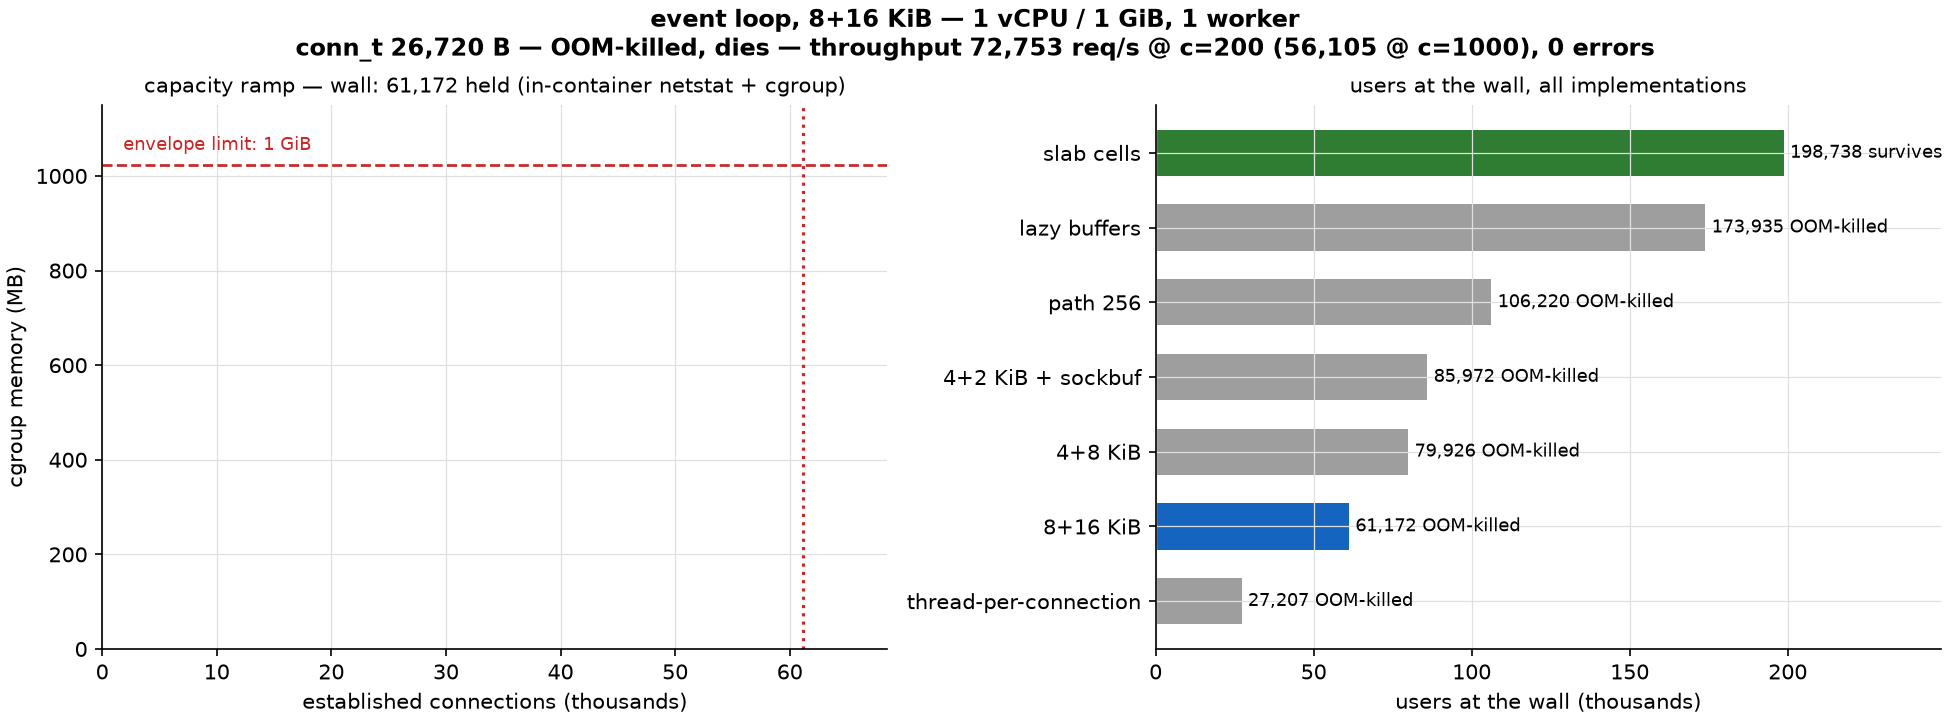
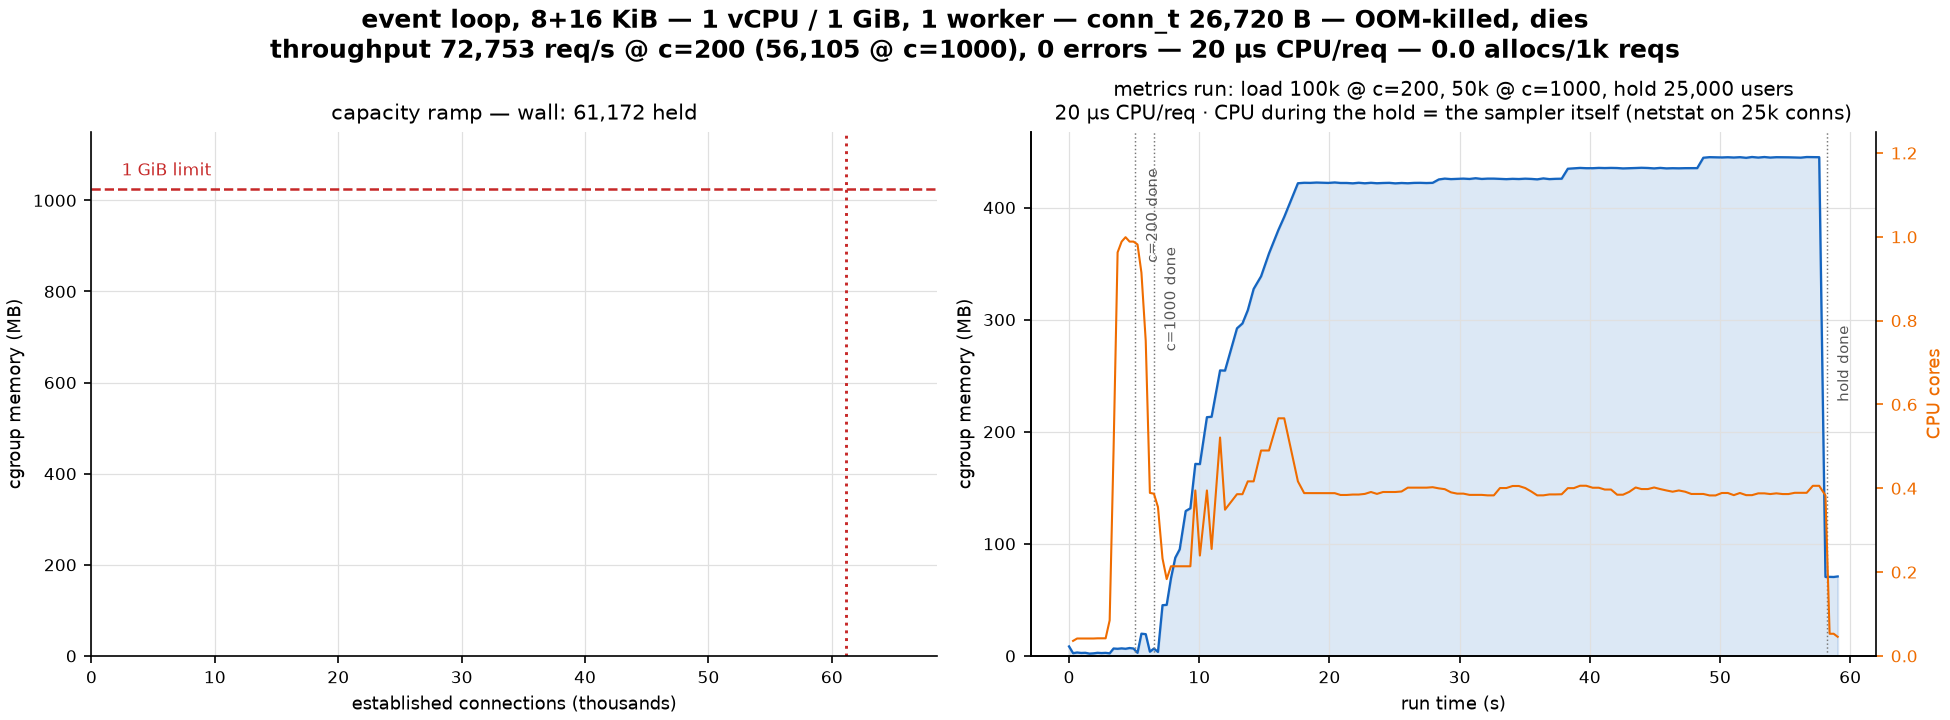
add more graphs showing server states

diff --git a/bench/alloc_hook.c b/bench/alloc_hook.c
@@ -1,0 +1,111 @@
+/* alloc_hook.c — LD_PRELOAD allocation counter for benchmarking brrr.
+ *
+ * Counts malloc/calloc/realloc/free calls and bytes requested, and a
+ * background thread dumps counters to $ALLOC_STATS every 200 ms:
+ *   t_s=<monotonic> malloc=<n> calloc=<n> realloc=<n> free=<n> bytes=<n>
+ *
+ * Build: cc -O2 -std=c11 -shared -fPIC -o allochook.so alloc_hook.c -ldl
+ * Run:   LD_PRELOAD=./allochook.so ALLOC_STATS=/tmp/alloc.stats ./brrr ...
+ */
+#define _GNU_SOURCE
+#include <dlfcn.h>
+#include <pthread.h>
+#include <stdatomic.h>
+#include <stdio.h>
+#include <stdlib.h>
+#include <string.h>
+#include <time.h>
+#include <unistd.h>
+
+static _Atomic unsigned long long a_malloc, a_calloc, a_realloc, a_free, a_bytes;
+static void *(*r_malloc)(size_t);
+static void *(*r_calloc)(size_t, size_t);
+static void *(*r_realloc)(void *, size_t);
+static void (*r_free)(void *);
+static _Atomic int inited;
+
+/* early allocations during dlsym() init: served from this static buffer */
+static char boot[1 << 16];
+static size_t boot_used;
+
+static void init_real(void) {
+  r_malloc  = (void *(*)(size_t))dlsym(RTLD_NEXT, "malloc");
+  r_calloc  = (void *(*)(size_t, size_t))dlsym(RTLD_NEXT, "calloc");
+  r_realloc = (void *(*)(void *, size_t))dlsym(RTLD_NEXT, "realloc");
+  r_free    = (void (*)(void *))dlsym(RTLD_NEXT, "free");
+  __atomic_store_n(&inited, 1, __ATOMIC_RELEASE);
+}
+
+void *malloc(size_t n) {
+  if (!__atomic_load_n(&inited, __ATOMIC_ACQUIRE)) init_real();
+  void *p = r_malloc(n);
+  if (p) {
+    __atomic_add_fetch(&a_malloc, 1, __ATOMIC_RELAXED);
+    __atomic_add_fetch(&a_bytes, n, __ATOMIC_RELAXED);
+  }
+  return p;
+}
+
+void *calloc(size_t n, size_t sz) {
+  if (!__atomic_load_n(&inited, __ATOMIC_ACQUIRE)) {
+    size_t total = n * sz, round = (total + 15) & ~(size_t)15;
+    if (boot_used + round <= sizeof boot) {
+      void *p = boot + boot_used;
+      boot_used += round;
+      return memset(p, 0, total);
+    }
+    init_real();
+  }
+  void *p = r_calloc(n, sz);
+  if (p) {
+    __atomic_add_fetch(&a_calloc, 1, __ATOMIC_RELAXED);
+    __atomic_add_fetch(&a_bytes, n * sz, __ATOMIC_RELAXED);
+  }
+  return p;
+}
+
+void *realloc(void *q, size_t n) {
+  if (!__atomic_load_n(&inited, __ATOMIC_ACQUIRE)) init_real();
+  void *p = r_realloc(q, n);
+  if (p) {
+    __atomic_add_fetch(&a_realloc, 1, __ATOMIC_RELAXED);
+    __atomic_add_fetch(&a_bytes, n, __ATOMIC_RELAXED);
+  }
+  return p;
+}
+
+void free(void *q) {
+  if (!q) return;
+  if ((char *)q >= boot && (char *)q < boot + sizeof boot) return;
+  if (r_free) r_free(q);
+  __atomic_add_fetch(&a_free, 1, __ATOMIC_RELAXED);
+}
+
+static void *dumper(void *arg) {
+  (void)arg;
+  const char *path = getenv("ALLOC_STATS");
+  if (!path) return 0;
+  for (;;) {
+    struct timespec ts;
+    clock_gettime(CLOCK_MONOTONIC, &ts);
+    FILE *f = fopen(path, "w");
+    if (f) {
+      fprintf(f, "t_s=%.3f malloc=%llu calloc=%llu realloc=%llu free=%llu bytes=%llu\n",
+              (double)ts.tv_sec + ts.tv_nsec / 1e9,
+              __atomic_load_n(&a_malloc, __ATOMIC_RELAXED),
+              __atomic_load_n(&a_calloc, __ATOMIC_RELAXED),
+              __atomic_load_n(&a_realloc, __ATOMIC_RELAXED),
+              __atomic_load_n(&a_free, __ATOMIC_RELAXED),
+              __atomic_load_n(&a_bytes, __ATOMIC_RELAXED));
+      fclose(f);
+    }
+    usleep(200 * 1000);
+  }
+  return 0;
+}
+
+__attribute__((constructor)) static void start(void) {
+  init_real();
+  pthread_t t;
+  if (pthread_create(&t, 0, dumper, 0) == 0) pthread_detach(t);
+}

diff --git a/bench/capacity.py b/bench/capacity.py
@@ -50,6 +50,11 @@ try:
               f"brrr VmRSS: {rss/1048576:7.1f} MB   cgroup: {cg/1048576:7.1f} MB   "
               f"({rss/max(START+ok,1):,.0f} B/user)", flush=True)
     print(f"target reached ({TARGET} users) without hitting a wall")
+    import os
+    hold = int(os.environ.get("HOLD_SECONDS", "0"))
+    if hold:
+        print(f"holding {len(socks)} sockets for {hold}s...", flush=True)
+        time.sleep(hold)
 except (OSError, socket.timeout) as e:
     print(f"wall hit at {START + ok} users: {e!r}")
     # hold the sockets so ground truth can be sampled from the server

diff --git a/changelog.md b/changelog.md
@@ -185,13 +185,58 @@ below it needs a userspace TCP stack (a model change, not an optimization).
 
 -----
 
+# Rich metrics: allocations, per-connection memory, CPU (harness + charts)
+
+Added an allocation counter and a metrics sampler to the bench harness,
+and rebuilt the charts around four measured dimensions: capacity,
+memory-per-connection, allocator behavior, and CPU cost.
+
+Harness: `bench/alloc_hook.c` (LD_PRELOAD malloc/calloc/realloc/free
+counter, 200 ms dumper thread), `bench/entry.sh` (container entrypoint
+enabling it), `bench/capacity.py` (now also holds on target-reached),
+metrics driver runs idle → load (100k @ c=200, 50k @ c=1000) → 25k-user
+hold with an in-container 300 ms sampler (cgroup memory, cpu.stat, VmRSS,
+netstat conns, alloc counters).
+
+Implementation: `implementations/event-loop-cells/brrr.c` (latest; every
+implementation measured — numbers in `bench/results.json`, per-impl chart
+`bench.png` beside each implementation's code, comparisons in
+`implementations/{scorecard,memory-per-connection,allocator-behavior}.png`)
+
+- CPU per request (cgroup cpu.stat across the 100k @ c=200 window):
+  thread 29.5 µs · 8+16 KiB 19.7 · 4+8 KiB 16.7 · 4+2 KiB 23.0 ·
+  path 256 19.1 · lazy 22.1 · slab cells **17.4 µs**.
+- Heap allocations per 1k requests: ~6.1 for every event-loop snapshot,
+  6.2 for threads — but **0.1 for slab cells** (steady-state serving is
+  allocation-free; the others' ~6 allocs/1k are connection setup amortized
+  over keep-alive reuse).
+- Onboarding 25k users, heap bytes requested per new user: 8+16 KiB
+  54,608 · 4+8 KiB 30,013 · 4+2 KiB 17,661 · thread 14,071 · path 256
+  14,069 · cells 2,703 · lazy 2,298 B — with **alloc events per user:
+  0.02 for cells** (slab chunking) vs 3.0–4.0 for everything else.
+- Marginal memory per connection at the hold ramp (least-squares slope,
+  fixed overhead excluded): cells 1.40 KB userland + ~4.0 KB kernel;
+  lazy 2.16 + ~3.9; path 256 6.05 + ~3.9; 4+2 KiB 8.41 + ~4.0; 4+8 KiB
+  9.32 + ~4.0; 8+16 KiB 13.96 + ~4.0; thread 14.25 + ~25 KB kernel
+  (kernel thread stacks/page tables).
+
+Notes: measured with the alloc hook preloaded ( throughput in this build
+runs ~10–20% under the campaign's clean numbers — interposition overhead
+and run variance; CPU-per-request and alloc counts are unaffected ).
+`sampler`-side note: the in-container sampler's own netstat dominates CPU
+during the hold phase — CPU numbers come from the load windows only.
+
+-----
+
 # Envelope: 1 vCPU / 1 GiB (all implementations re-measured)
 
 The canonical envelope trades a core for RAM: capacity is a memory metric
 and idle users cost no CPU — the single core serves throughput as well as
 two did (~72k vs ~75k req/s @ c=200). Every implementation re-measured
 in the new envelope; per-implementation chart: `bench.png` in each
-implementation's folder; the trail: `bench/scorecard.png`.
+implementation's folder; cross-implementation charts:
+`implementations/scorecard.png`, `implementations/memory-per-connection.png`,
+`implementations/allocator-behavior.png`.
 
 Implementation: `docker-compose.yml` (cpus "1.0", mem 1g, memswap 1g,
 1 SO_REUSEPORT worker)

diff --git a/README.md b/README.md
@@ -105,8 +105,10 @@ container). Capacity probes run *inside the Docker network*
 | Memory per idle user | ~1.4 KB userland + ~2.7 KB kernel | ~14.5 KB RSS + ~23 KB kernel (stacks) |
 | Behavior at the wall | drops overflow, **keeps serving**, `OOMKilled: false` | **kernel OOM-kill, whole server dies** (exit 137) |
 
-Charts: `bench/scorecard.png` (the trail) and `bench.png` in each
-implementation folder (its measured capacity ramp).
+Charts — comparisons across all implementations: `implementations/scorecard.png`,
+`implementations/memory-per-connection.png`, `implementations/allocator-behavior.png`;
+one per implementation, beside its code: `implementations/<impl>/bench.png`
+(capacity ramp + load/hold timeline). Machine-readable numbers: `bench/results.json`.
 
 ### Optimization trail (users fitting in the same 1 GiB, every entry re-measured)
 

diff --git a/implementations/README.md b/implementations/README.md
@@ -16,8 +16,10 @@ snapshot.
 | `event-loop-lazy-buffers/` | lazy request buffers + `Connection: close` fix | 368 B | 173,935, then OOM-killed |
 | `event-loop-cells/` | slab cells + inline buffers (**latest**) | 1,392 B cell | **198,738, survives** |
 
-Each folder contains `bench.png`: that implementation's measured capacity
-ramp and its position on the trail (`../bench/scorecard.png` compares all).
+Each folder contains `bench.png`: that implementation's own measured
+capacity ramp and metrics-run timeline (load, hold, CPU). Comparison
+charts across all implementations live in this folder:
+`scorecard.png`, `memory-per-connection.png`, `allocator-behavior.png`.
 Numbers were re-measured in the 1 vCPU / 1 GiB envelope; at it, only the
 slab-cells implementation survives the wall — every other snapshot is
 OOM-killed during the connection burst.
